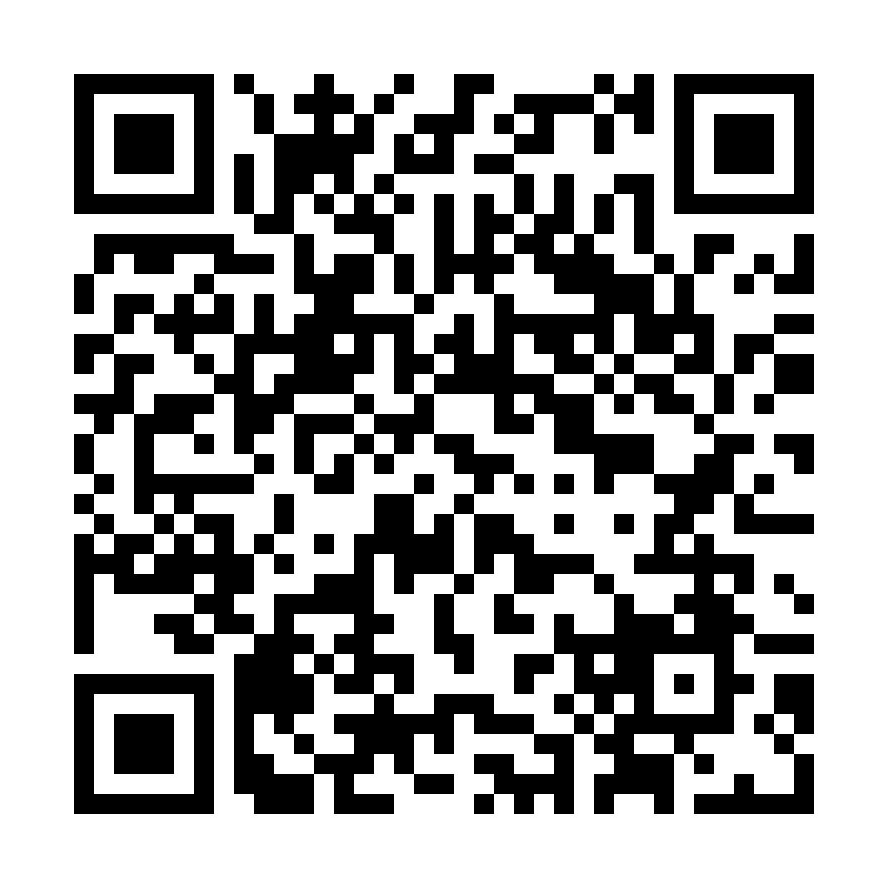
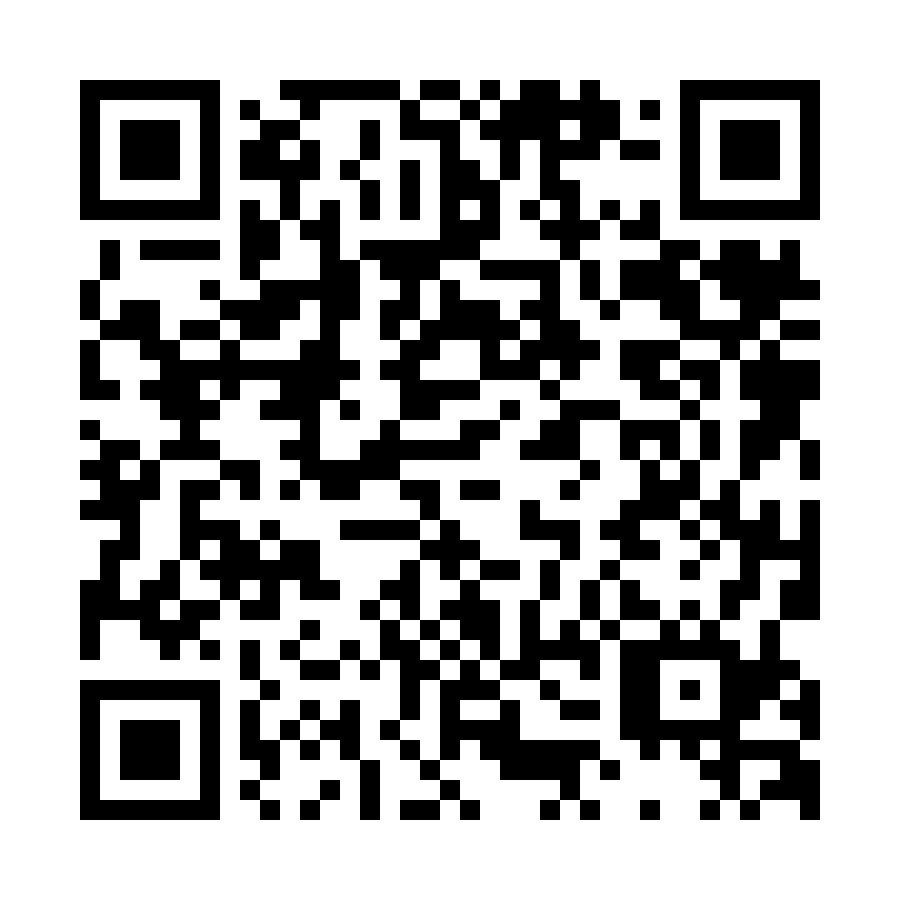
Point the article at the version its download actually serves
The download QR now leads to v2.0.9 while the article still announced
v2.0.7 and its changelog stopped there — a reader would have been told
one version and handed another, with the two releases in between never
mentioned. Banner, section heading and changelog now match.

Also two pieces of markdown had been left inside the HTML, where the
editor shows the asterisks rather than bolding anything. They are real
tags now.

The QR itself is trimmed to a four-module quiet zone, measured from the
finder pattern rather than assumed, so the code fills the space it is
given in a phone-width column instead of floating in white.

Layout otherwise audited against that column: every image inlined and
capped at max-width, no table wider than three columns, no markdown left.

diff --git a/docs/marketing/公众号推广文章_粘贴版.html b/docs/marketing/公众号推广文章_粘贴版.html
@@ -40,9 +40,9 @@
 
     <!-- v2.0.5 发布说明 -->
     <div style="background:linear-gradient(135deg,#fff7ed 0%,#fef3c7 100%);border:1px solid #fed7aa;border-radius:10px;padding:18px 22px;margin:24px 0 20px;">
-      <div style="font-weight:700;color:#7c2d12;font-size:15px;margin-bottom:8px;">📢 v2.0.7 上线</div>
+      <div style="font-weight:700;color:#7c2d12;font-size:15px;margin-bottom:8px;">📢 v2.0.9 上线</div>
       <p style="font-size:14px;color:#92400e;line-height:1.8;margin:0;">
-        这个工具最早只做一件事：<b>检测到 5 小时限制 → 等到 reset 时刻 → 自动输入 continue</b>。v2.0 起它多了两个身份：<b>被安全策略拦住时自动换模型顶上</b>（模型恢复），以及 <b>After finish —— 会话跑完当前任务后，自动输入你预设的下一条指令，让窗口一直有活干</b>。v2.0.7 又补上了一件更常遇到的事：<b>会话停下来问你一句，就没人回答了</b>——计划做完等你批准、要不要建这个文件、三选一的设计问题……人一走开，窗口就空等一整夜。现在这些都能自动回答。（v2.0.6 则重写了模型恢复：实测确认安全拦截是基于<b>整段对话历史</b>判定的，光重试永远过不去，只有 /compact 压缩上文才能解。）已经在用旧版本的朋友，直接看 <b>"⏭ After finish"</b> 和 <b>"⇄ 模型恢复"</b> 两节。
+        这个工具最早只做一件事：<b>检测到 5 小时限制 → 等到 reset 时刻 → 自动输入 continue</b>。v2.0 起它多了两个身份：<b>被安全策略拦住时自动换模型顶上</b>（模型恢复），以及 <b>After finish —— 会话跑完当前任务后，自动输入你预设的下一条指令，让窗口一直有活干</b>。v2.0.7 起又补上了一件更常遇到的事：<b>会话停下来问你一句，就没人回答了</b>——计划做完等你批准、要不要建这个文件、三选一的设计问题……人一走开，窗口就空等一整夜。现在这些都能自动回答。（v2.0.6 则重写了模型恢复：实测确认安全拦截是基于<b>整段对话历史</b>判定的，光重试永远过不去，只有 /compact 压缩上文才能解。）已经在用旧版本的朋友，直接看 <b>"⏭ After finish"</b> 和 <b>"⇄ 模型恢复"</b> 两节。
       </p>
     </div>
 
@@ -112,7 +112,7 @@
     <hr style="border:none;border-top:1px dashed #e5e7eb;margin:28px 0;">
 
     <!-- ══════════ 重点：模型恢复 ══════════ -->
-    <div style="font-size:18px;font-weight:700;color:#1a1a1a;margin:32px 0 14px;padding-left:12px;border-left:4px solid #fb923c;">⏎ v2.0.7 新功能：会话停下来问你时，自动替你回答</div>
+    <div style="font-size:18px;font-weight:700;color:#1a1a1a;margin:32px 0 14px;padding-left:12px;border-left:4px solid #fb923c;">⏎ 新功能：会话停下来问你时，自动替你回答</div>
 
     <p style="font-size:15px;color:#333;line-height:1.9;margin-bottom:16px;">
       限流会自己到点恢复，网络断了会自己重连，<b>但"等你回答"不会</b>。Claude Code 停下来弹一个选择框，
@@ -120,7 +120,7 @@
     </p>
 
     <div style="background:#fff7ed;border-left:4px solid #fb923c;padding:14px 18px;margin:16px 0 20px;font-size:14px;color:#7c2d12;line-height:1.8;">
-      <b>Advanced → Answering</b> 里两个开关，<b>默认一开一关</b>：<br><br>· <b>Answer choosers</b>（<b>默认关</b>）——普通提问选择框，包括<b>计划模式做完后的批准框</b>。默认关，是因为**这个开关会替你做决定**：选哪个方案、以及一份写好的计划要不要开始执行。想让会话自己往下跑时再打开。<br>· <b>Answer tool-permission requests</b>（<b>默认开</b>）——"要不要建这个文件 / 跑这条命令"的授权框。它只是对**你已经交代过的活**说"是"，不替你做选择，所以默认开着。
+      <b>Advanced → Answering</b> 里两个开关，<b>默认一开一关</b>：<br><br>· <b>Answer choosers</b>（<b>默认关</b>）——普通提问选择框，包括<b>计划模式做完后的批准框</b>。默认关，是因为<b>这个开关会替你做决定</b>：选哪个方案、以及一份写好的计划要不要开始执行。想让会话自己往下跑时再打开。<br>· <b>Answer tool-permission requests</b>（<b>默认开</b>）——"要不要建这个文件 / 跑这条命令"的授权框。它只是对<b>你已经交代过的活</b>说"是"，不替你做选择，所以默认开着。
     </div>
 
     <p style="font-size:15px;color:#333;line-height:1.9;margin-bottom:12px;">
@@ -536,7 +536,17 @@
     <div style="font-size:18px;font-weight:700;color:#1a1a1a;margin:32px 0 14px;padding-left:12px;border-left:4px solid #fb923c;">📝 更新日志</div>
 
     <div style="background:#fffbeb;border:1px solid #fde68a;border-radius:10px;padding:16px 20px;margin-bottom:18px;">
-      <div style="font-weight:700;color:#78350f;font-size:14px;margin-bottom:10px;">🆕 v2.0.7</div>
+      <div style="font-weight:700;color:#78350f;font-size:14px;margin-bottom:10px;">🆕 v2.0.9</div>
+      <ul style="padding-left:20px;font-size:13px;color:#78350f;margin:0 0 14px;line-height:1.8;">
+        <li><b>升级下载支持断点续传，而且跨启动</b>：断线后保留已下载的部分，下次打开接着下——慢链路上"每次从零开始"等于永远下不完</li>
+        <li>旧版本残留的半个包会被识别并丢弃，不会把新旧字节接在一起（否则要等整包下完才被校验拦下）</li>
+      </ul>
+      <div style="font-weight:700;color:#78350f;font-size:14px;margin-bottom:10px;">🕘 v2.0.8</div>
+      <ul style="padding-left:20px;font-size:13px;color:#78350f;margin:0 0 14px;line-height:1.8;">
+        <li><b>Answer choosers 改为默认关</b>：它是<b>替你做决定</b>的那个开关（选方案、计划要不要开跑）；权限那个只对你已交代的活说"是"，保持默认开</li>
+        <li>下载失败自动重试并从断点续传</li>
+      </ul>
+      <div style="font-weight:700;color:#78350f;font-size:14px;margin-bottom:10px;">🕘 v2.0.7</div>
       <ul style="padding-left:20px;font-size:13px;color:#78350f;margin:0 0 14px;line-height:1.8;">
         <li><b>自动回答选择框</b>（两个独立开关）：包括 <b>plan 模式的计划批准框</b>，无人值守时不再卡在"等你点一下"。普通选择框那个<b>默认关</b>（它会替你做决定），权限授权那个默认开（只对你已交代的活说是）</li>
         <li><b>只按 Enter、不输数字</b>；正在出词、输入框有草稿、同一个框已答过，三种情况一律不动</li>
@@ -626,7 +636,7 @@
                   <div style="font-weight:700;color:#1c1917;font-size:14px;margin-bottom:6px;">百度网盘</div>
                   <div style="font-size:11px;color:#6b7280;line-height:1.5;margin-bottom:10px;">国内下载更快</div>
                   <!-- 百度网盘二维码（发布时需在编辑器重新插入图片） -->
[2 lines of base64/hex data omitted]
                   <div style="font-size:10px;color:#9ca3af;line-height:1.5;">长按 / 扫码</div>
                 </div>
               </td>
